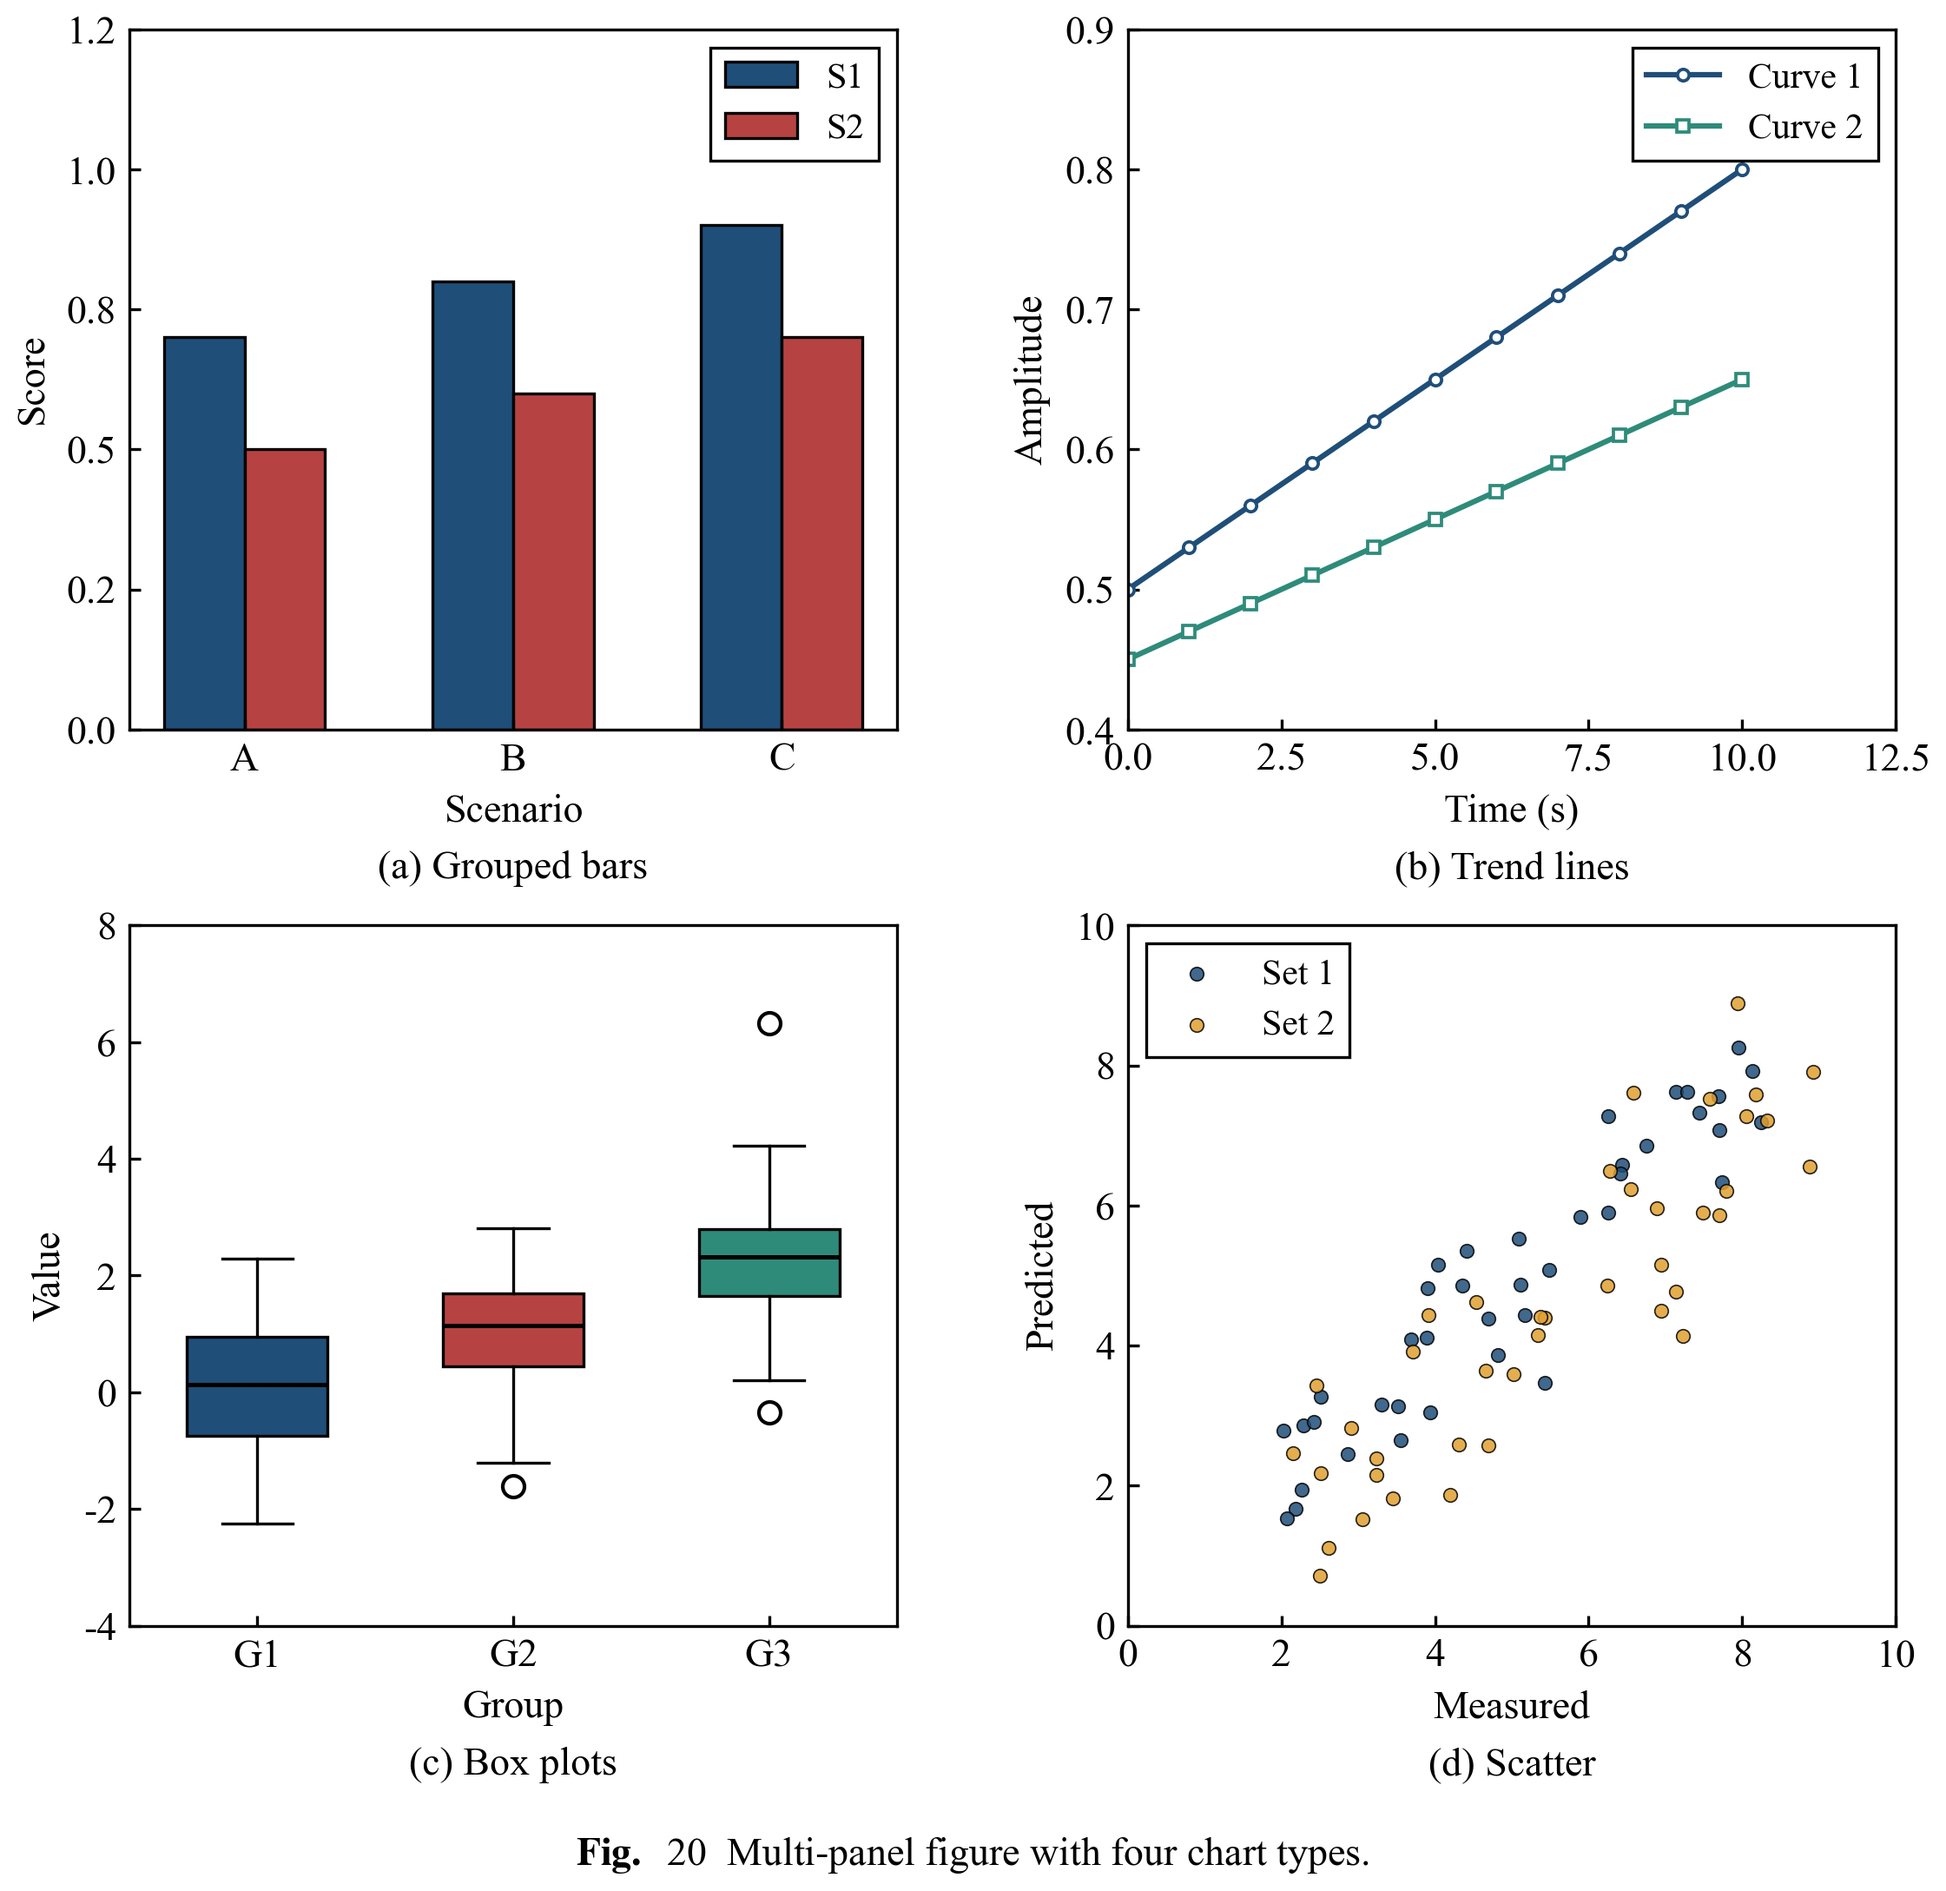
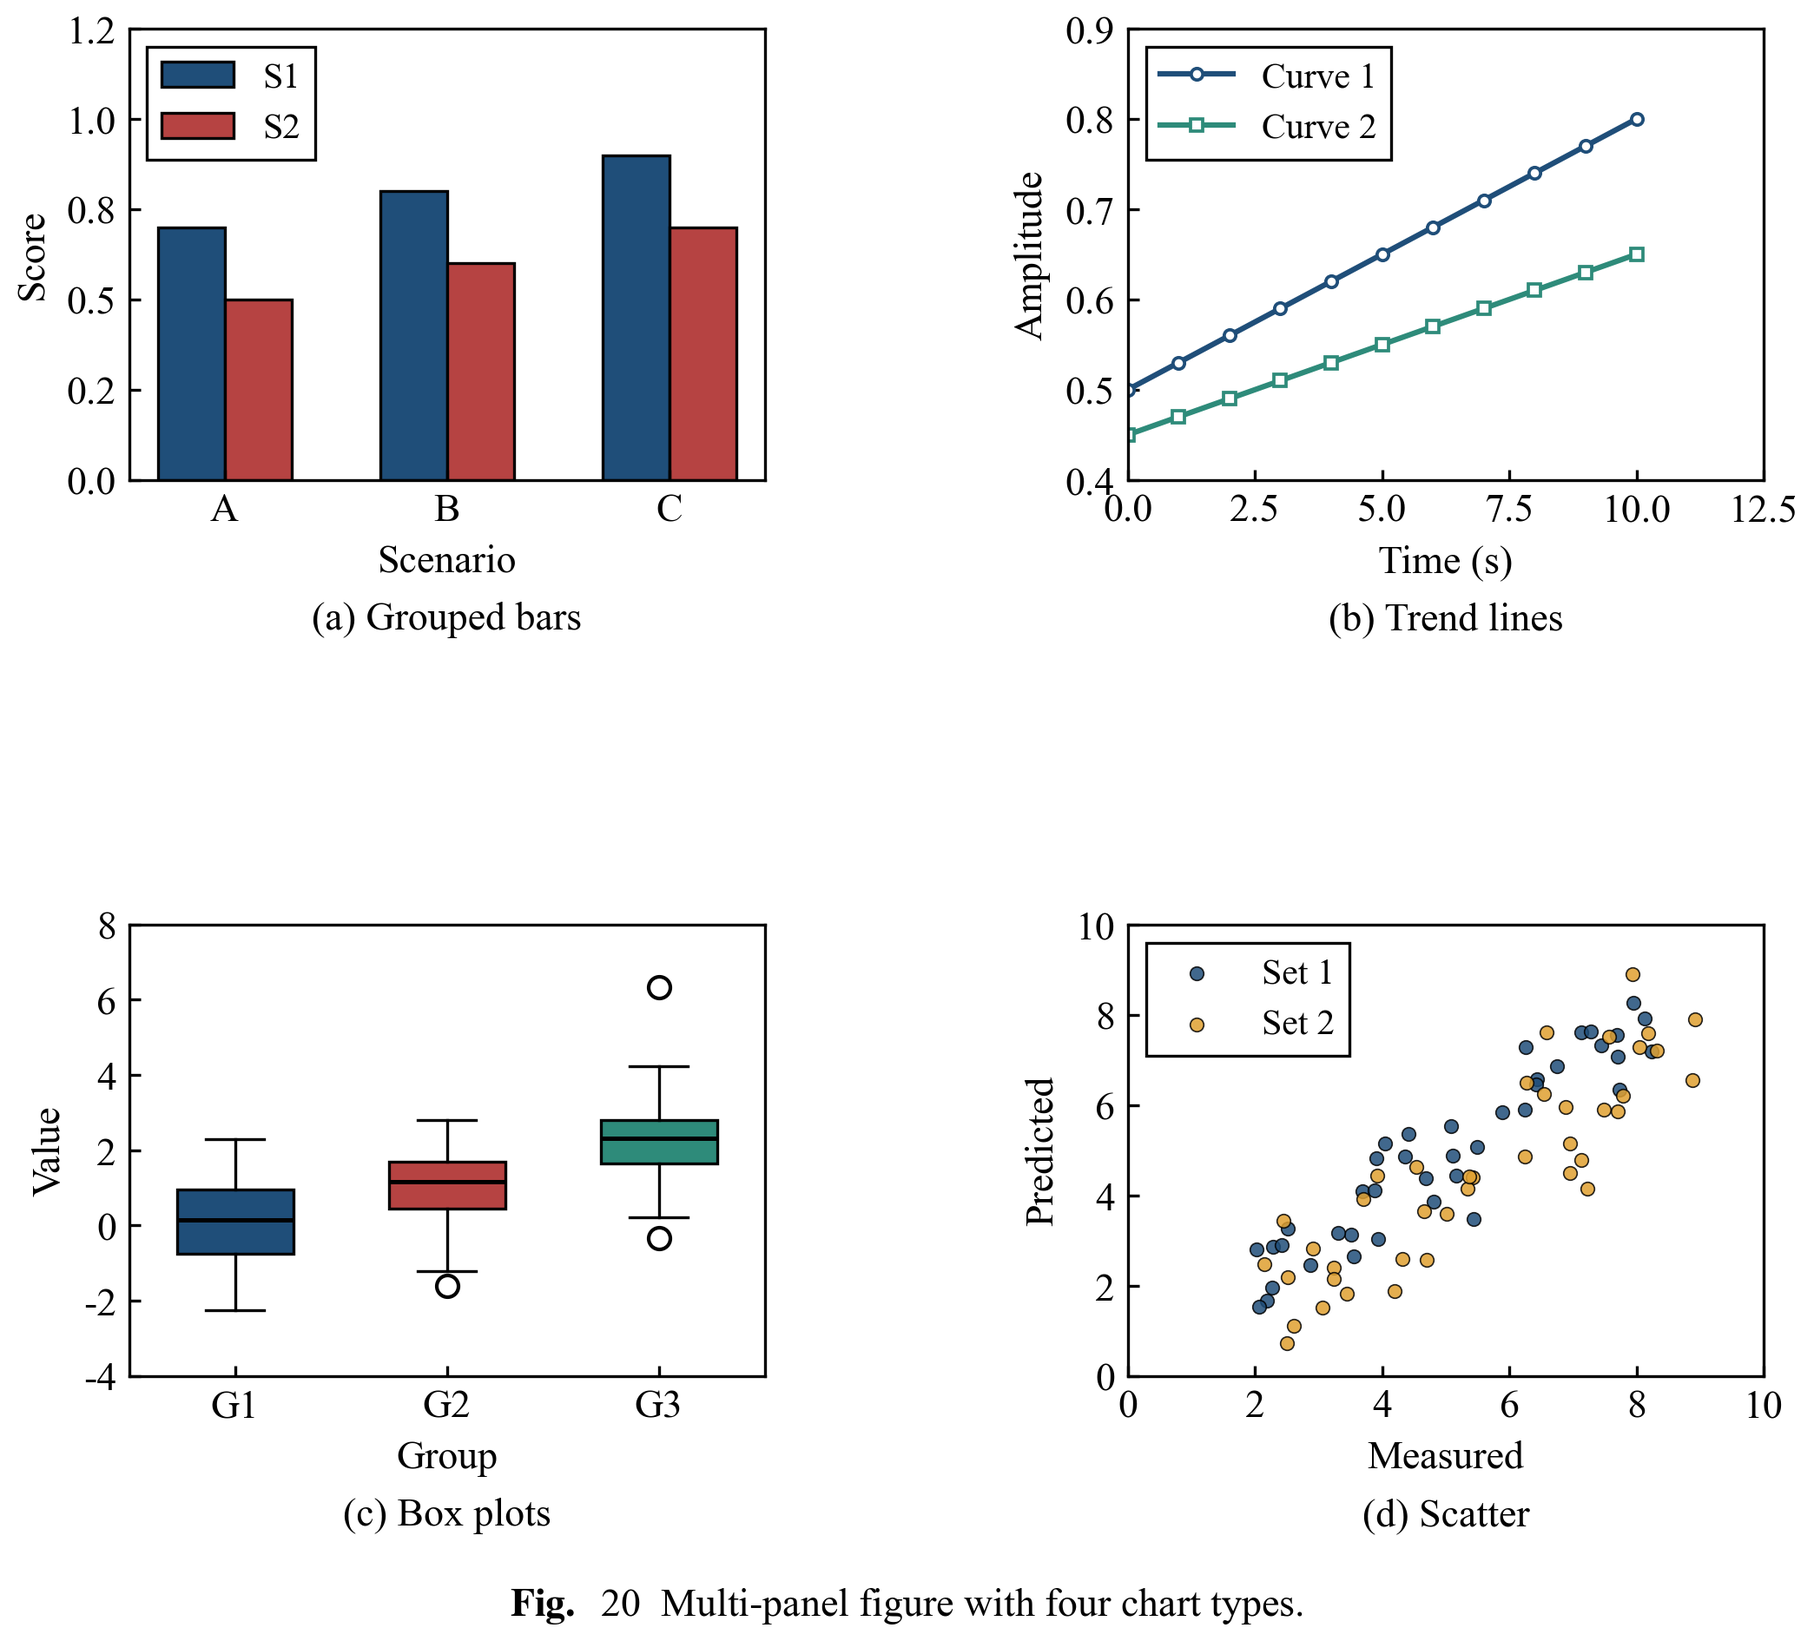
Multi-panel panels share the 62x44 single-column box; fix colorbar host
- 2x2 multi_panel: each subplot is resized onto WXL_AXES_PANEL_MM (62x44)
  about its own grid cell via fig._wxl_panel_axes_mm, so a panel's black frame
  matches a single-column figure; the grid is re-centred afterwards.
- contour/heatmap colorbar: the host can no longer be inferred from ax.images
  (contourf builds a collection, not an image), so read it from each colorbar's
  mappable.axes. This fixes the detached colorbar on the filled contour map.
- Slim the colorbar (0.035 host width, 0.008 pad, labelpad 2) so a single-column
  figure with a colorbar stays within the 90 mm column.

diff --git a/assets/wxl_style.py b/assets/wxl_style.py
@@ -1021,13 +1021,27 @@ def _standardize_axes_box(fig, w_mm: float, h_mm: float) -> int:
         except Exception:                                  # pragma: no cover
             pass
         a.set_position([x0, y0, wf, hf])
-    host = next((t for t in targets if t.images), None)
-    if host is not None:
+    # Tuck every colorbar against its host axes. The host cannot be inferred
+    # from ``ax.images`` (``contourf`` builds a collection, not an image), so
+    # read it from each colorbar's mappable instead.
+    for a in fig.get_axes():
+        cb = getattr(a, "_colorbar", None)
+        if cb is None:
+            continue
+        mob = getattr(cb, "mappable", None)
+        host = getattr(mob, "axes", None) if mob is not None else None
+        if host is None or host not in targets:
+            continue
         hp = host.get_position()
-        for a in fig.get_axes():
-            if hasattr(a, "_colorbar"):
-                a.set_position([hp.x1 + 0.015 * hp.width, hp.y0,
-                                0.05 * hp.width, hp.height])
+        # keep the colorbar slim: the standard single-column box leaves only
+        # ~10 mm beside the box, and a wide bar plus its tick labels would push
+        # the figure past the 90 mm column
+        a.set_position([hp.x1 + 0.008 * hp.width, hp.y0,
+                        0.035 * hp.width, hp.height])
+        try:
+            cb.set_label(cb.ax.get_ylabel(), labelpad=2)
+        except Exception:                                  # pragma: no cover
+            pass
     fig._wxl_no_tight = True
     # A single-column figure has only ~10 mm of spare width once the standard
     # 62 x 44 box and its axis labels are in place, so a right legend panel
@@ -1053,6 +1067,44 @@ def _standardize_axes_box(fig, w_mm: float, h_mm: float) -> int:
                     lg.get_frame().set_linewidth(0.8)
                     lg.get_frame().set_alpha(1.0)
             fig.delaxes(a)
+    return len(targets)
+
+
+#: standard box for each panel of a multi-panel figure (mm), so every subplot's
+#: black frame matches a single-column figure of the same style.
+WXL_AXES_PANEL_MM = (62.0, 44.0)
+
+
+def _standardize_grid_boxes(fig, w_mm: float, h_mm: float) -> int:
+    """Force every panel of a grid figure to the same physical box.
+
+    Unlike :func:`_standardize_axes_box`, which stacks every axes onto one
+    shared box (correct for a single-subplot figure), this keeps each panel in
+    its own grid cell and only rescales its axes to ``w_mm x h_mm`` about that
+    cell's centre. Used for multi-panel figures so each subplot's black frame is
+    the same size as a single-column figure. Returns the number of axes resized.
+    """
+    fw, fh = (float(v) for v in fig.get_size_inches())
+    W, H = fw * 25.4, fh * 25.4
+    targets = [a for a in fig.get_axes()
+               if a.axison and not _is_polar(a) and not hasattr(a, "_colorbar")]
+    if not targets:
+        return 0
+    wf = w_mm / W
+    hf = h_mm / H
+    if wf >= 1.0 or hf >= 1.0:
+        return 0
+    for a in targets:
+        try:
+            a.set_aspect("auto")
+        except Exception:                                  # pragma: no cover
+            pass
+        p = a.get_position()
+        # keep the panel's cell centre, only resize the box around it
+        cx = p.x0 + p.width / 2.0
+        cy = p.y0 + p.height / 2.0
+        a.set_position([cx - wf / 2.0, cy - hf / 2.0, wf, hf])
+    fig._wxl_no_tight = True
     return len(targets)
 
 
@@ -1149,6 +1201,17 @@ def finalize_figure(fig, out_path, formats=None, dpi: int | None = None,
         if _standardize_axes_box(fig, *WXL_AXES_SINGLE_MM):
             _prepare()
             _relayout()
+
+    # a multi-panel figure brings every panel to the same box as a single-column
+    # figure, so each subplot's black frame matches; only resize, never stack
+    panel_box = getattr(fig, "_wxl_panel_axes_mm", None)
+    if panel_box and not getattr(fig, "_wxl_skip_std_axes", False):
+        if _standardize_grid_boxes(fig, *panel_box):
+            _prepare()
+            _relayout()
+            # recentre the whole grid after the panels shrank
+            if getattr(fig, "_wxl_center", False):
+                center_grid(fig)
 
     saved = []
     for ext in formats:

diff --git a/examples/gallery.py b/examples/gallery.py
@@ -24,10 +24,10 @@ SKILL = Path(__file__).resolve().parents[1]
 sys.path.insert(0, str(SKILL / "assets"))
 
 from wxl_style import (  # noqa: E402
-    WXL_CMAP, WXL_FIGSIZE, WXL_FONTSIZE, WXL_PALETTE, WXL_WIDTH_MM, add_caption,
-    add_caption_below, annotate_bars, apply_wxl_style, center_grid,
-    check_wxl_style, create_subplots, finalize_figure, framed_legend,
-    measure_width_mm, panel_tag, prepare_figure,
+    WXL_AXES_PANEL_MM, WXL_CMAP, WXL_FIGSIZE, WXL_FONTSIZE, WXL_PALETTE,
+    WXL_WIDTH_MM, add_caption, add_caption_below, annotate_bars, apply_wxl_style,
+    center_grid, check_wxl_style, create_subplots, finalize_figure,
+    framed_legend, measure_width_mm, panel_tag, prepare_figure,
 )
 
 P = WXL_PALETTE
@@ -547,6 +547,8 @@ def fig_multi_panel():
     fig, axes = create_subplots(2, 2, figsize=WXL_FIGSIZE["double_tall"])
     fig._wxl_no_tight = True      # keep the manual centering
     fig._wxl_center = True        # centre the grid at every layout pass
+    # every panel's black frame matches a single-column figure
+    fig._wxl_panel_axes_mm = WXL_AXES_PANEL_MM
     # row/column gap tuned so the top-row panel labels sit ~14 pt above the
     # bottom-row panels, matching the caption gap (add_caption_below, 14 pt)
     fig.subplots_adjust(hspace=0.28, wspace=0.30)

diff --git a/SKILL.md b/SKILL.md
@@ -72,7 +72,9 @@ These rules supersede any conflicting style text in `references/` or in upstream
    calibration, `finalize_figure` forces each single-column figure's axes onto
    the standard `WXL_AXES_SINGLE_MM = (62.0, 44.0)` mm box (polar axes, pies
    and colorbar axes exempt), so the black frames match across all single-column
-   figures regardless of labels or legends. The trimmed image is then usually
+   figures regardless of labels or legends. Multi-panel figures bring each
+   subplot to the same box (`WXL_AXES_PANEL_MM`), so a panel of a 2 × 2 grid is
+   the same size as a single-column figure. The trimmed image is then usually
    narrower than 90 mm — fitting the column is the rule, not filling it.
 5. **Full box on every Cartesian axes.** All four spines drawn at 0.8 pt.
    Exceptions: polar axes (radar), axes with `axison = False` (pie/donut) and

diff --git a/references/api.md b/references/api.md
@@ -232,6 +232,12 @@ in-axes (the right-panel fallback is disabled at this size: a 62 × 44 box plus 
 panel would overflow the column). Set `fig._wxl_skip_std_axes = True` before
 calling `finalize_figure` to opt a figure out of the standard box.
 
+A multi-panel figure is brought to the same box per panel: set
+`fig._wxl_panel_axes_mm = WXL_AXES_PANEL_MM` (also 62 × 44 mm) and
+`finalize_figure` resizes every subplot of a grid to that box about its own grid
+cell (never stacking them), then re-centres the grid. This makes each subplot's
+black frame the same size as a single-column figure.
+
 ```python
 finalize_figure(fig, "figures/result", formats=["png", "pdf"], dpi=600,
                 target_width_mm=WXL_WIDTH_MM["double"])

diff --git a/references/design-theory.md b/references/design-theory.md
@@ -150,7 +150,9 @@ and more contrast is needed.
   (190 × 66 mm, half the old 190 × 132 mm height). The 11 pt text is unchanged,
   so it reads larger relative to the shorter plot. This suits a wide, flat
   comparison figure. The 2 × 2 multi-panel grid stays tall via `double_tall`
-  (190 × 173 mm).
+  (190 × 173 mm) but brings every panel to the 62 × 44 mm single-column box
+  (`_wxl_panel_axes_mm`), so each subplot's black frame is the same size as a
+  single-column figure.
 - **Legends**: inside the axes, `loc="best"` first, then the emptiest corner,
   then two columns. `ylim` is deliberately loosened (for example to 1.55 for
   bars topping out at 0.94) so the legend never sits on data.

diff --git a/references/demos.md b/references/demos.md
@@ -66,7 +66,9 @@ the layouts it suits).
 
 Note: the `double` preset is deliberately short — 190 × 66 mm, half the height it
 used to be — while every text element stays 11 pt. `double_tall` (190 × 173 mm)
-is the tall 2 × 2 multi-panel preset and is unchanged. `double_1x3`
+is the tall 2 × 2 multi-panel preset and is unchanged, but each of its panels is
+brought to the 62 × 44 mm single-column box (`_wxl_panel_axes_mm`), so a subplot
+is the same size as a single-column figure. `double_1x3`
 (190 × 41 mm) is the 1 × 3 row preset, sized so each panel keeps the
 single-column aspect ratio (50.4 × 38.5 mm, 1.31).
 
